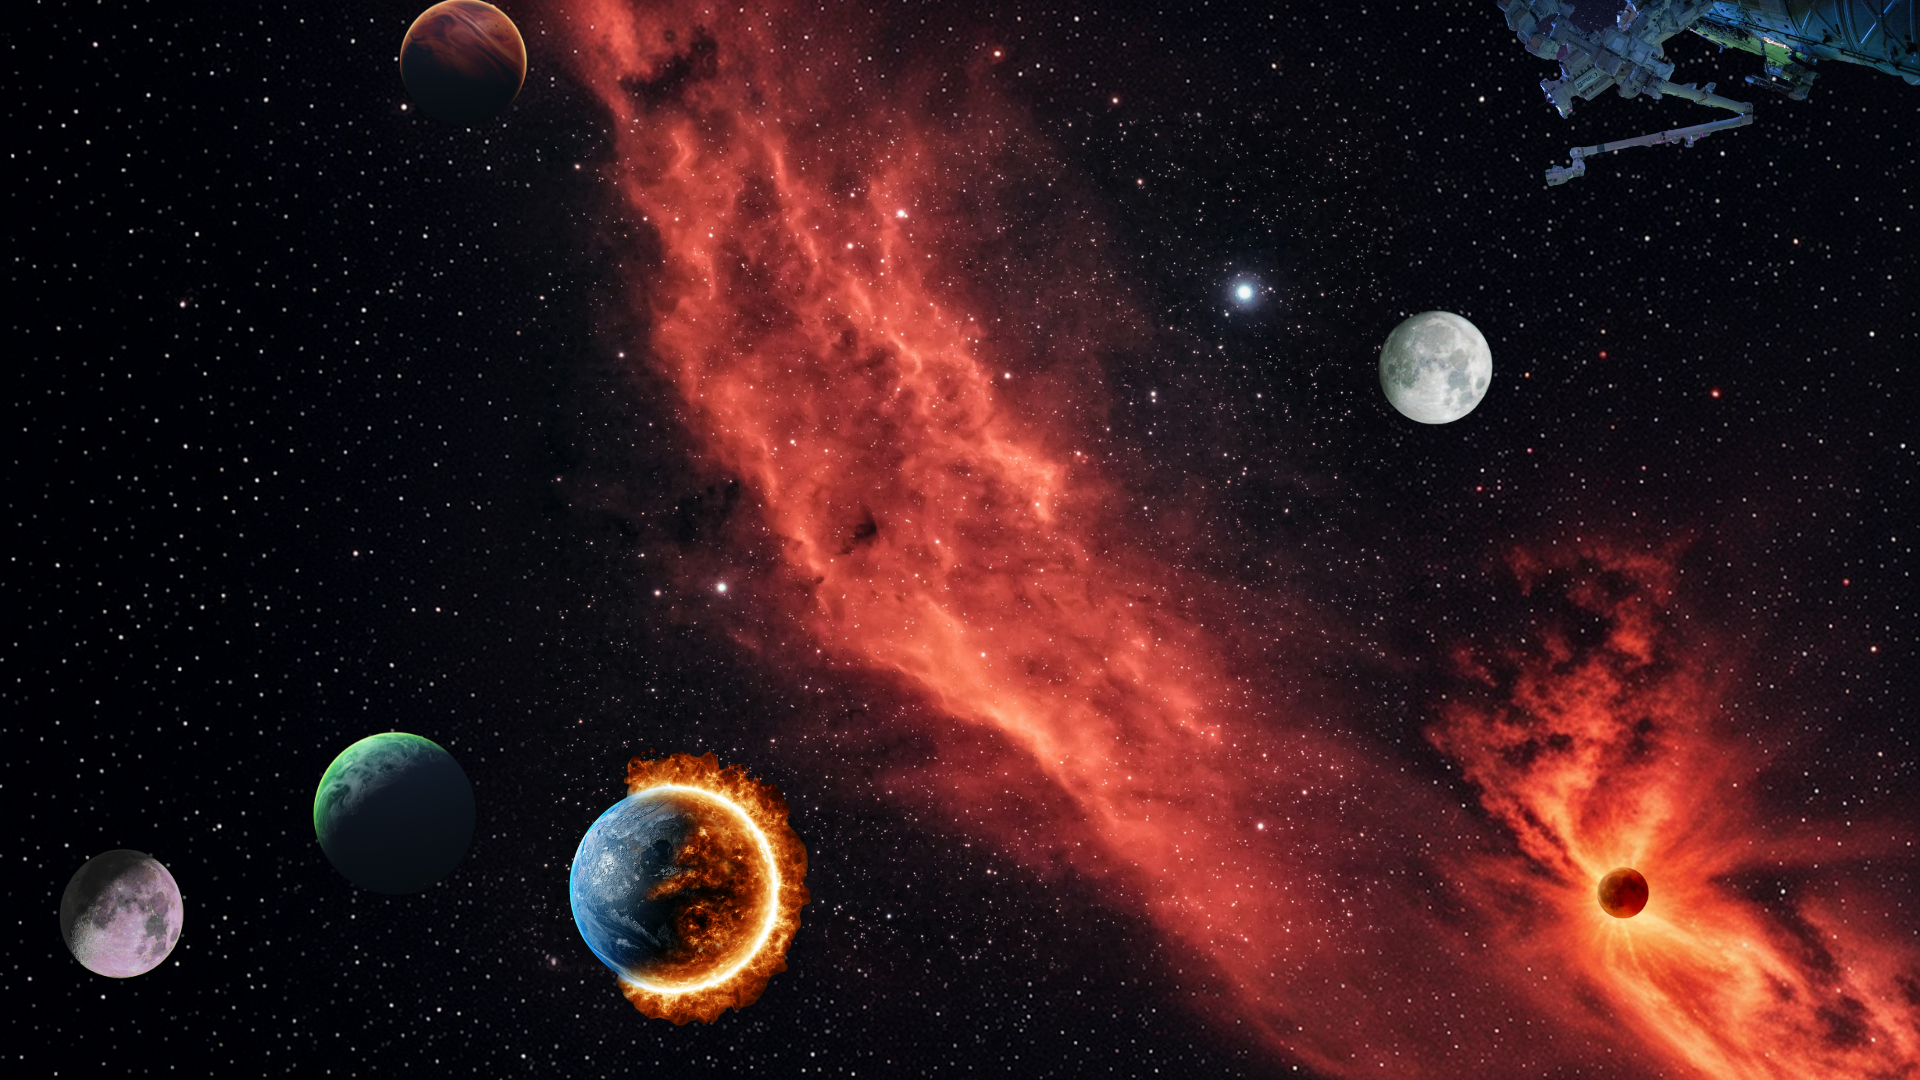
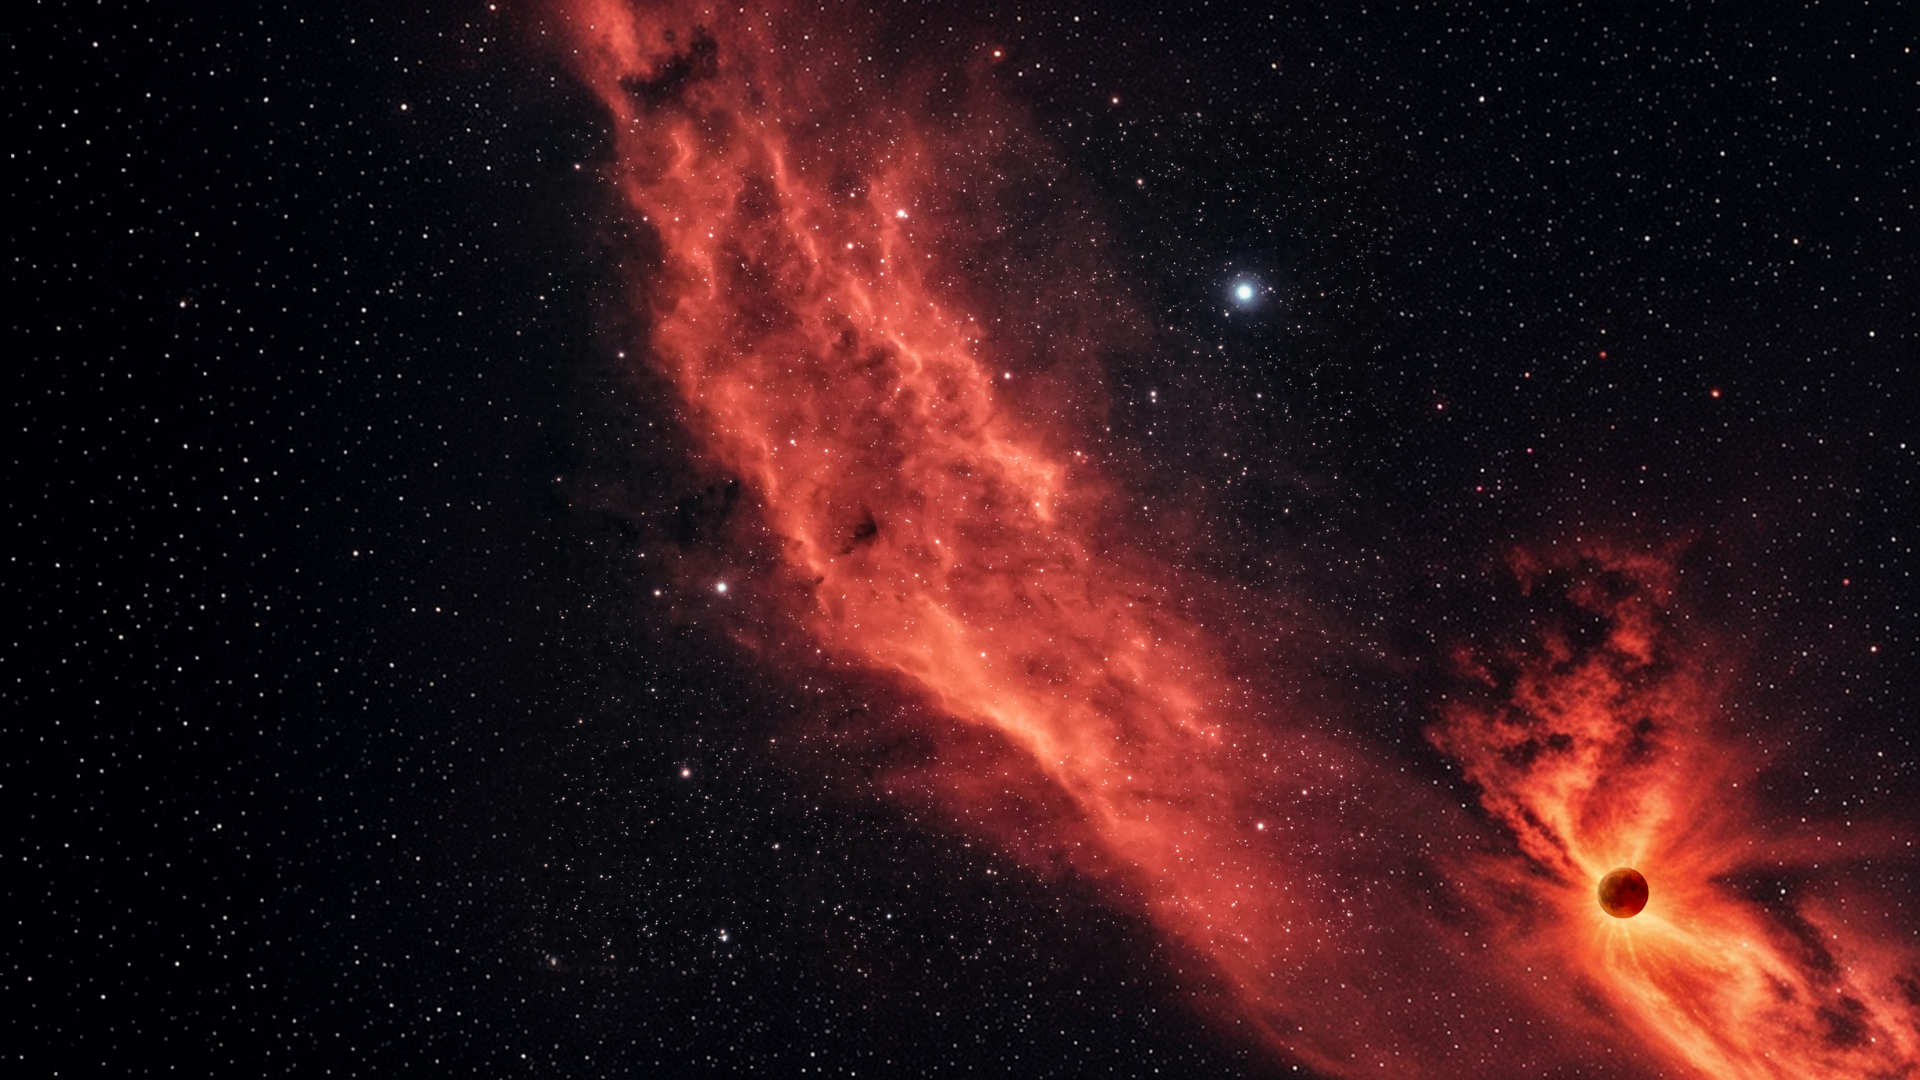
some adjustements

diff --git a/index.html b/index.html
@@ -27,7 +27,13 @@
 
     <section class="planete">
       <img src="Galaxy-Home/LG_YT.png" alt="" id="lg-yt" width="100px">
+      <img src="Galaxy-Home/Planete1.png" alt="" id="p1" width="430px">
+      <img src="Galaxy-Home/Planete2.png" alt="" id="p2" width="270px">
+      <img src="Galaxy-Home/Planete3.png" alt="" id="p3" width="420px">
       <img src="Galaxy-Home/Planete4.png" alt="" id="p4" width="200px">
+      <img src="Galaxy-Home/Planete5.png" alt="" id="p5" width="200px">
+      <img src="Galaxy-Home/Planete6.png" alt="" id="p6" width="218px">
+      <img src="Galaxy-Home/Satelite.png" alt="" id="satelite" width="579px">
     </section>
 
 
@@ -52,22 +58,6 @@
 
 
   </div>
-
-
-
-  <script src="https://code.jquery.com/jquery-3.6.0.min.js"></script>
-
-  <script type="text/javascript">
-
-    $(window).scroll(function () {
-      var scrollPos = $(this).scrollTop();
-      $(".hero-back").css({
-        'background-size': 100 + scrollPos + '%'
-      });
-    });
-
-  </script>
-
 
   <script src="script.js"></script>
 </body>

diff --git a/home.css b/home.css
@@ -95,10 +95,46 @@ ul.navlist {
   position: absolute;
 }
 
+.planete #p1 {
+  position: absolute;
+  left: 23%;
+  top: 67%;
+}
+
+.planete #p2 {
+  position: absolute;
+  top: 75%;
+  lefT: 13%;
+}
+
+.planete #p3 {
+  position: absolute;
+  top: 70%;
+  left: -2%;
+}
+
 .planete #p4 {
   position: absolute;
   left: 10%;
   top: 20%;
+}
+
+.planete #p5 {
+  position: absolute;
+  left: 69%;
+  top: 29%;
+}
+
+.planete #p6 {
+  position: absolute;
+  top: -2%;
+  left: 18%;
+}
+
+.planete #satelite {
+  position: absolute;
+  top: 0%;
+  left: 70%;
 }
 
 .planete:hover #p4 {
@@ -119,13 +155,6 @@ ul.navlist {
   top: 20%;
 }
 
-.contente #p1 {
-  position: absolute;
-  left: 10%;
-  top: 20%;
-}
-
-
 .content {
   width: 100%;
   height: auto;
@@ -137,7 +166,7 @@ ul.navlist {
 .hero-back {
   width: 100%;
   height: calc(100vh);
-  background: url(Galaxy-Home/Galaxy_DUAP_Background.png);
+  background: rgba(255, 255, 255, 0);
   background-size: cover;
   position: relative;
 }

diff --git a/Vidéos/videos.css b/Vidéos/videos.css
@@ -25,6 +25,7 @@
 body {
   margin: 0;
   font-family: "Space Grotesk", sans-serif;
+  background-image: url("../Galaxy-Home/Galaxy_DUAP_Background.png");
   background-attachment: fixed;
   background-repeat: no-repeat;
   background-size: cover;
@@ -166,10 +167,10 @@ iframe {
   border-radius: 10px;
 }
 
-#galaxy {
+/*#galaxy {
   position: fixed;
   right: 0;
   bottom: 0;
   min-width: 100%;
   min-height: 100%;
-}
+}*/

diff --git a/Shop/shop.css b/Shop/shop.css
@@ -25,11 +25,11 @@
 body {
   margin: 0;
   font-family: "Space Grotesk", sans-serif;
-  background-image: url("Images/BG_Shop.png");
+  background-image: url("../Galaxy-Home/Galaxy_DUAP_Background.png");
   background-attachment: fixed;
   background-repeat: no-repeat;
   background-size: cover;
-  background-color: #1a1919;
+  background-color: #000000;
   color: #fff;
   overflow-x: hidden;
 }

diff --git a/Streaming/streaming.css b/Streaming/streaming.css
@@ -25,7 +25,7 @@
 body {
   margin: 0;
   font-family: "Space Grotesk", sans-serif;
-  background-image: url("Galaxy-Home/Galaxy_DUAP_Background.png");
+  background-image: url("../Galaxy-Home/Galaxy_DUAP_Background.png");
   background-attachment: fixed;
   background-repeat: no-repeat;
   background-size: cover;

diff --git a/Vidéos/videos.html b/Vidéos/videos.html
@@ -20,10 +20,10 @@
 
 <body>
 
-  <video autoplay muted loop id="galaxy">
+  <!-- <video autoplay muted loop id="galaxy">
     <source src="/Vidéos/Medias/BG_Galaxy.mp4" type="video/mp4">
     Your browser does not support HTML5 video.
-  </video>
+  </video> -->
 
   <section id="videos">
 
